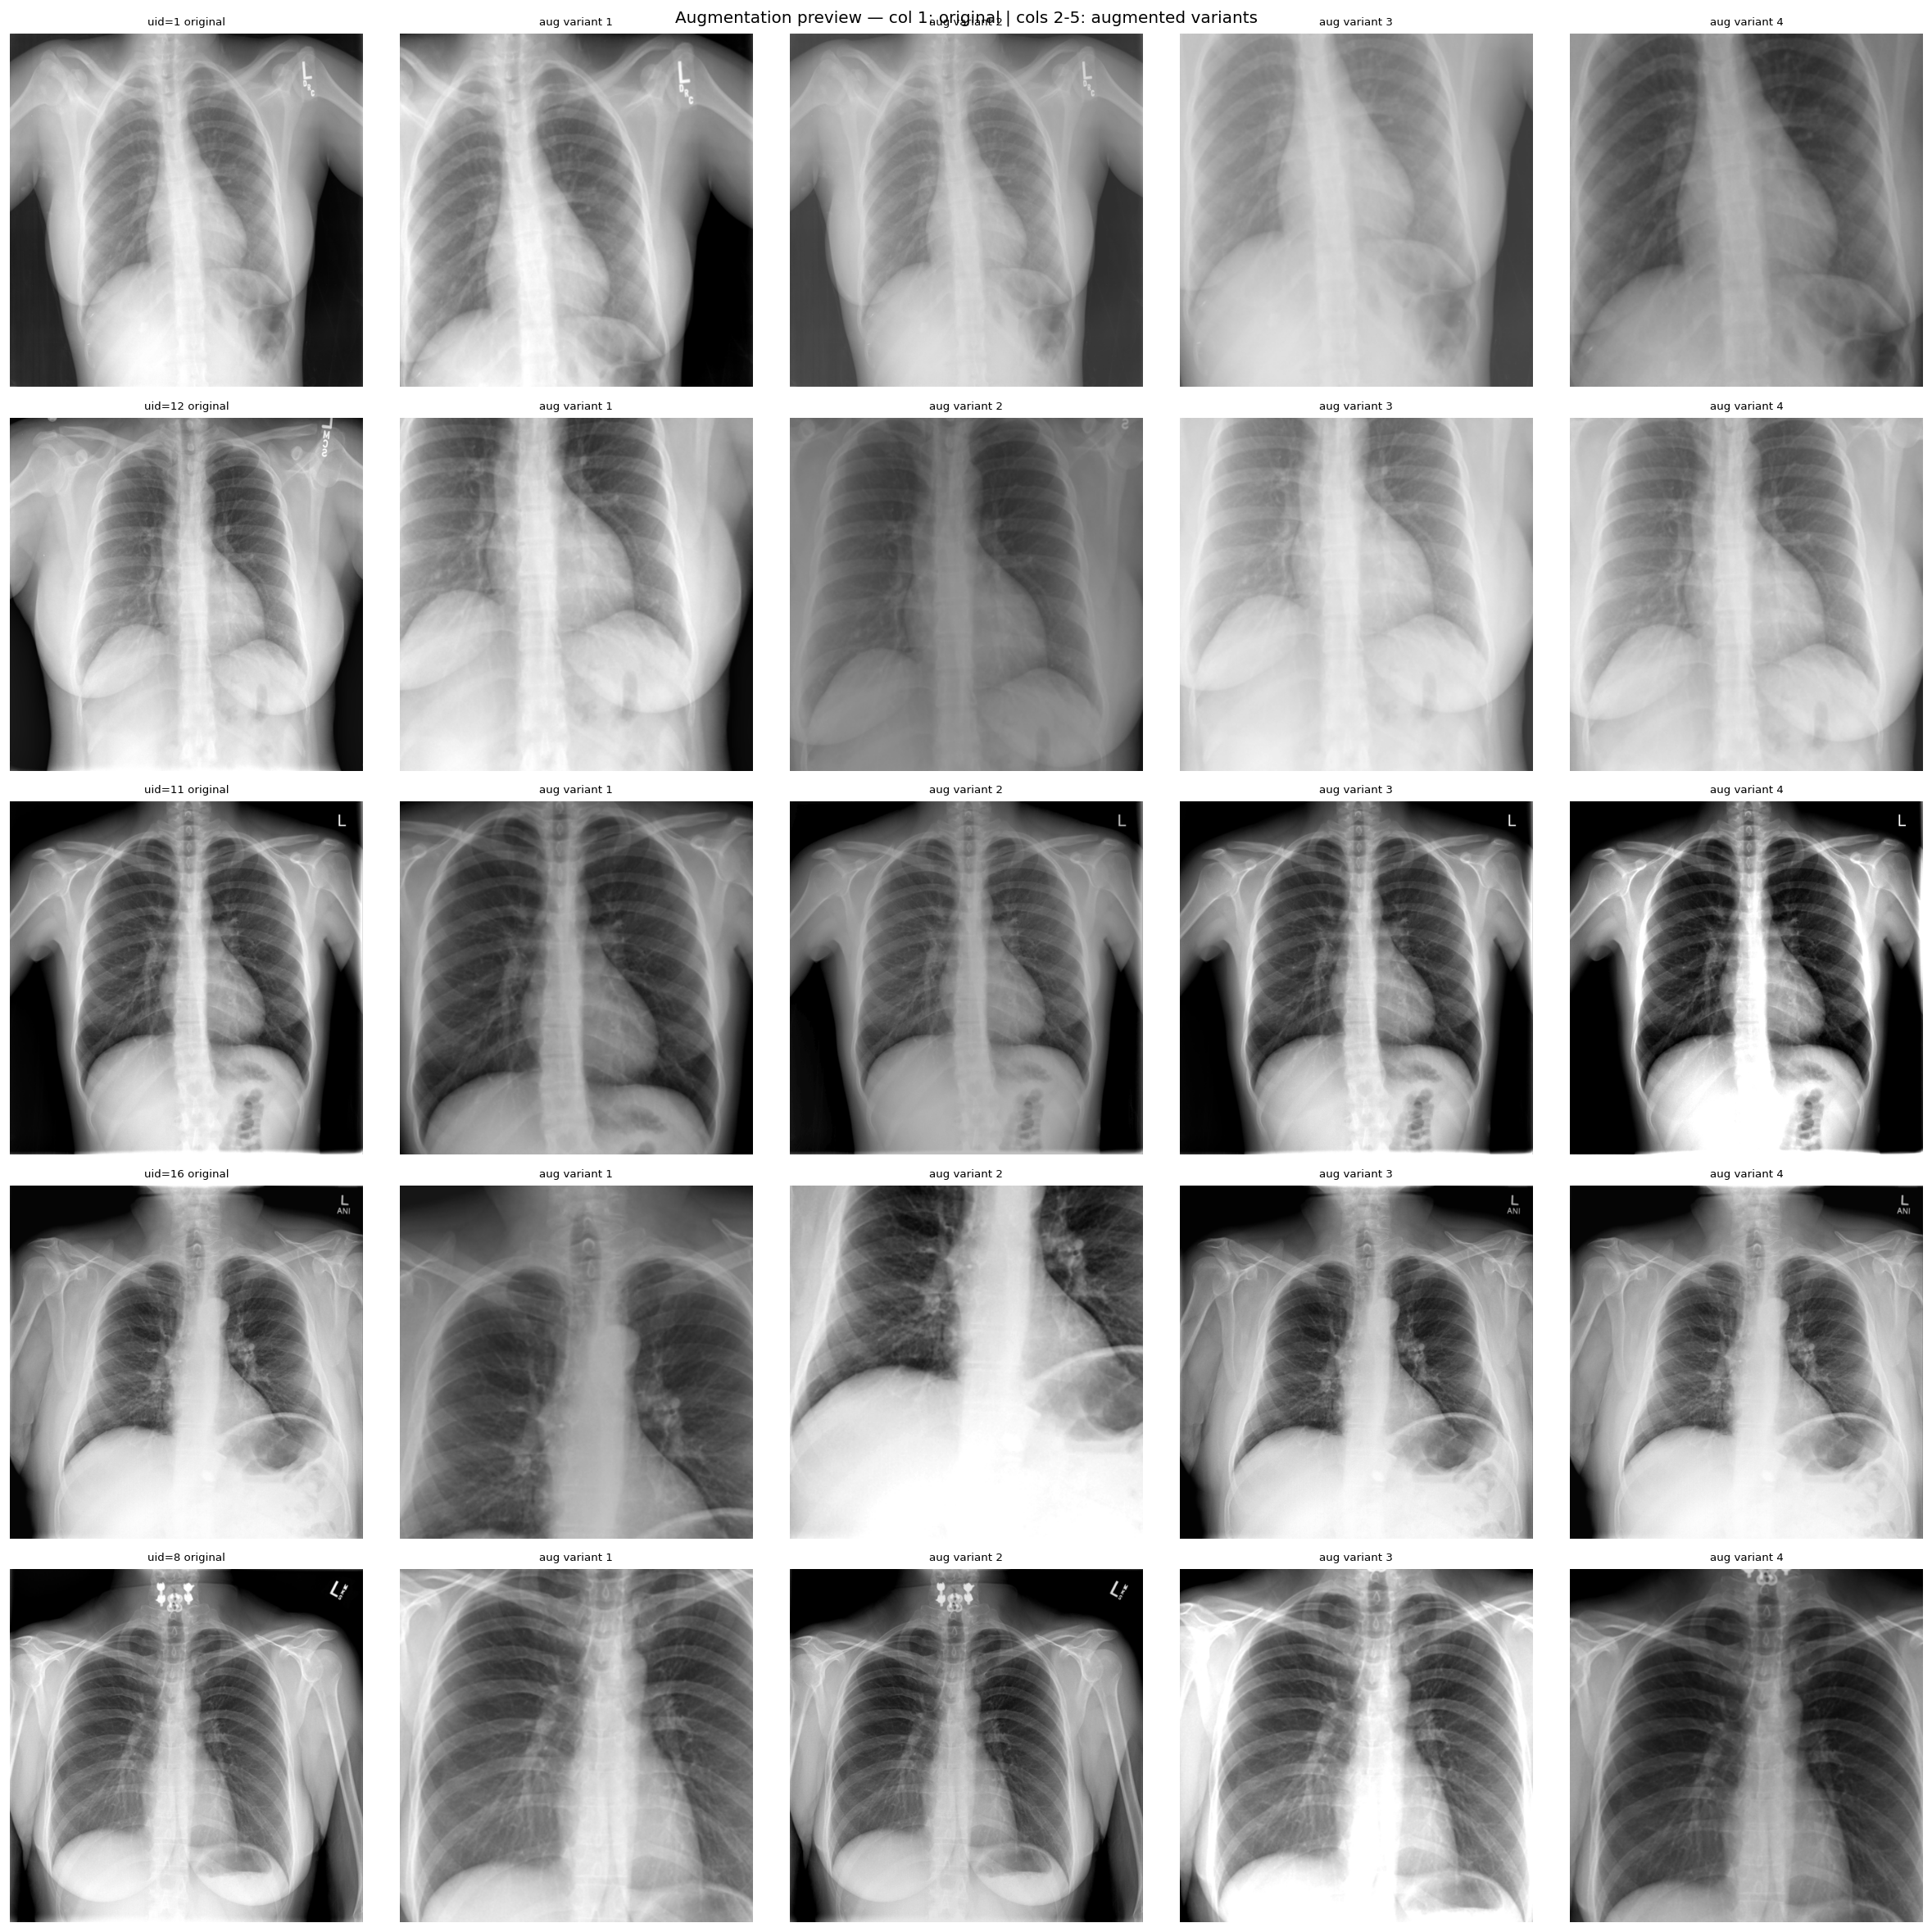
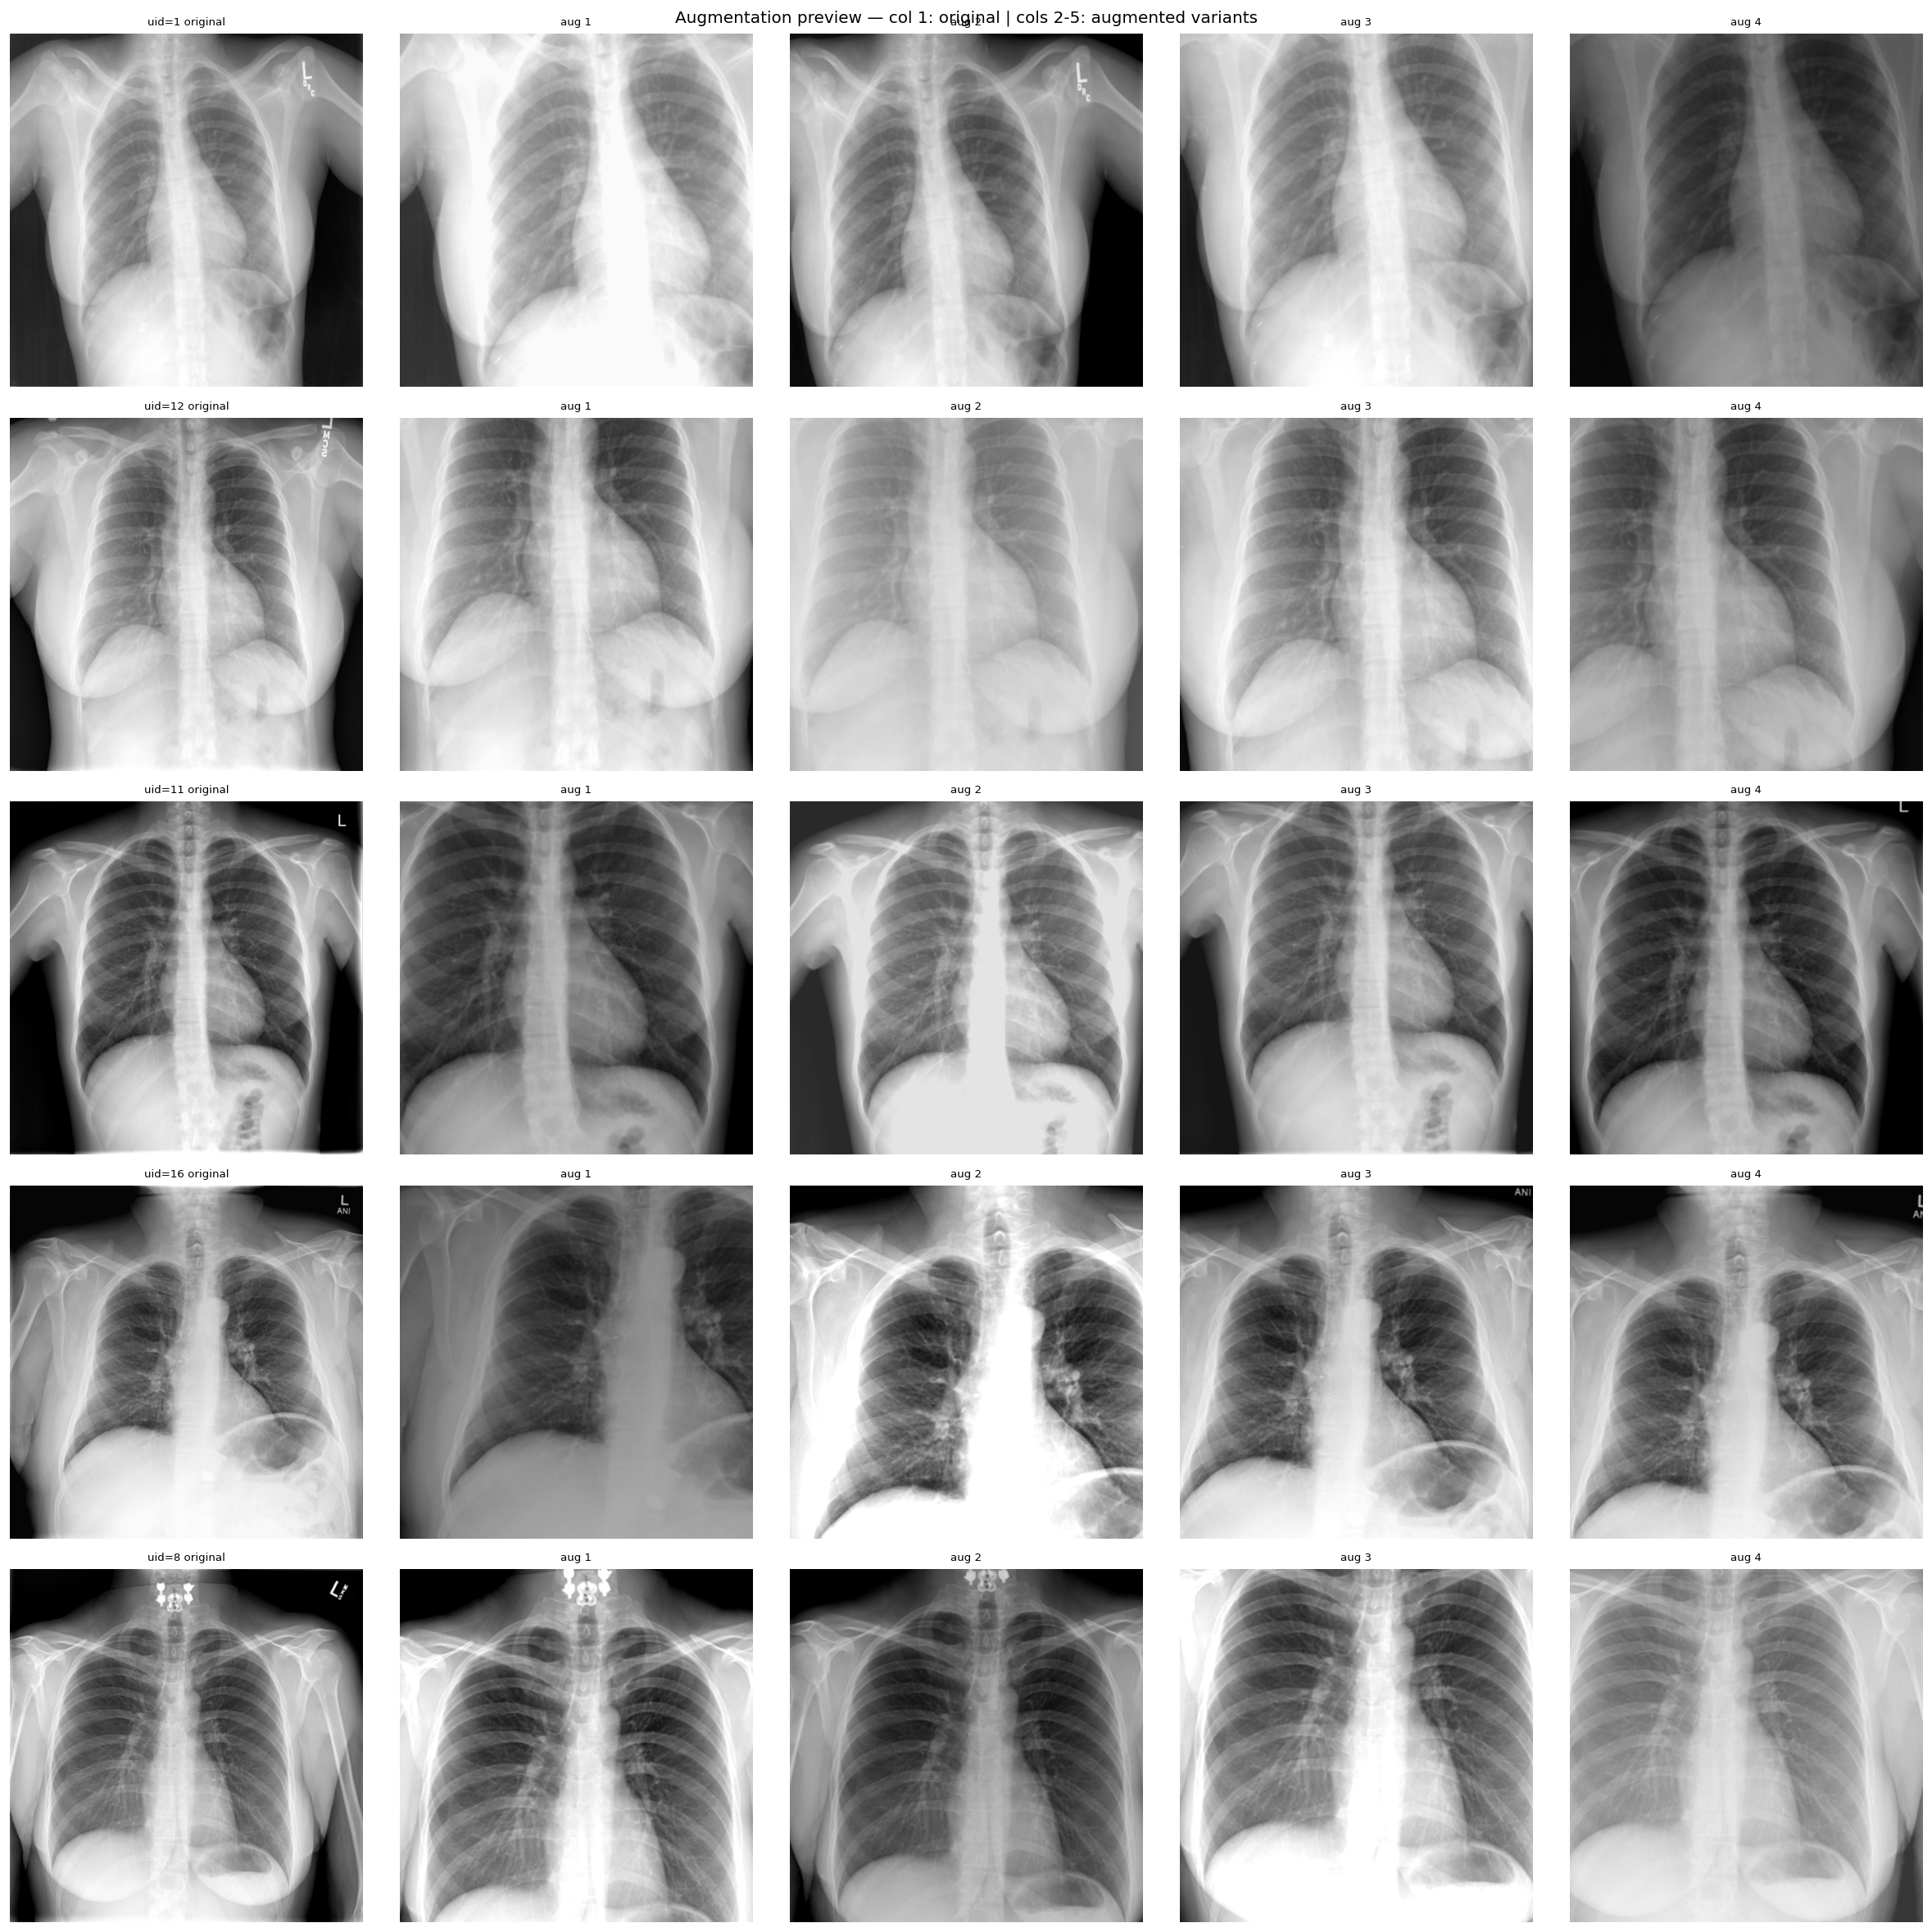
Fix training startup issues: image size, max_length, collator, HF Trainer
- Switch from TRL SFTTrainer to HF Trainer + custom CXRCollator
- Reduce image size 1024→512 (prevents image token overflow at max_len=2048)
- Increase max_length 2048→8192
- dataloader_num_workers=0 (avoid 16-process dataset reload on startup)
- ddp_find_unused_parameters=False (suppress DDP warning)
- DATA_DIR reads SMALLVLM_DATA env var for portability across machines

Training is running: loss=2.233 at step 10

diff --git a/training/train_sft.py b/training/train_sft.py
@@ -1,131 +1,67 @@
 """
 SFT training script for Qwen3.5-2B on CXR reports.
 
-Usage:
-  # Single phase
-  accelerate launch --config_file training/configs/accelerate.yaml \\
-      training/train_sft.py --phase 1 --output /raid/manoj/smallvlm/checkpoints/sft_phase1
+Uses HuggingFace Trainer (not TRL SFTTrainer) with a custom data collator
+to handle variable numbers of images per sample and curriculum task sampling.
 
-  # Continue from previous phase
+Usage:
   accelerate launch --config_file training/configs/accelerate.yaml \\
-      training/train_sft.py --phase 2 --base /raid/manoj/smallvlm/checkpoints/sft_phase1 \\
-      --output /raid/manoj/smallvlm/checkpoints/sft_phase2
+      training/train_sft.py --phase 1 \\
+      --output /raid3/manoj/smallvlm/checkpoints/sft_phase1_2b
+
+  # Continue from previous phase checkpoint:
+  accelerate launch --config_file training/configs/accelerate.yaml \\
+      training/train_sft.py --phase 2 \\
+      --base /raid3/manoj/smallvlm/checkpoints/sft_phase1_2b \\
+      --output /raid3/manoj/smallvlm/checkpoints/sft_phase2_2b
 """
 
 from __future__ import annotations
 
 import argparse
-import json
 import os
 import sys
 from pathlib import Path
 
 import torch
-from peft import LoraConfig, get_peft_model, TaskType
-from transformers import AutoModelForImageTextToText, AutoProcessor, TrainerCallback
-from trl import SFTConfig, SFTTrainer
+from peft import LoraConfig, TaskType, get_peft_model
+from transformers import AutoModelForImageTextToText, AutoProcessor, Trainer, TrainingArguments
 
 sys.path.insert(0, str(Path(__file__).parent.parent))
+from training.collator import CXRCollator
 from training.dataset import CXRSFTDataset
-from training.metrics import compute_eval_metrics, make_clearml_callback
+from training.metrics import make_clearml_callback
 
-# ── LoRA target modules ────────────────────────────────────────────────────────
-# Both DeltaNet linear_attn layers and standard self_attn layers
+# ── LoRA targets: both DeltaNet linear_attn and standard self_attn layers ─────
 LORA_TARGET_MODULES = [
-    # Standard attention
-    "q_proj", "k_proj", "v_proj", "o_proj",
-    # DeltaNet linear attention
-    "in_proj_qkv", "out_proj",
+    "q_proj", "k_proj", "v_proj", "o_proj",       # standard self_attn
+    "in_proj_qkv", "out_proj",                      # DeltaNet linear_attn
 ]
 
 
 def parse_args() -> argparse.Namespace:
     p = argparse.ArgumentParser()
-    p.add_argument("--phase", type=int, required=True, choices=[1, 2, 3, 4, 5])
-    p.add_argument("--base", default="/raid/manoj/smallvlm/checkpoints/base_qwen35_2b",
-                   help="Base model or previous phase checkpoint")
-    p.add_argument("--output", required=True)
-    p.add_argument("--epochs", type=int, default=2)
-    p.add_argument("--batch-size", type=int, default=2, help="Per-device batch size")
-    p.add_argument("--grad-accum", type=int, default=4)
-    p.add_argument("--lr", type=float, default=2e-4)
-    p.add_argument("--lora-r", type=int, default=32)
-    p.add_argument("--lora-alpha", type=int, default=32)
-    p.add_argument("--max-seq-len", type=int, default=2048)
-    p.add_argument("--eval-steps", type=int, default=200, help="Run eval every N steps")
+    p.add_argument("--phase",       type=int,   required=True, choices=[1, 2, 3, 4, 5])
+    p.add_argument("--base",        default=os.environ.get("SMALLVLM_DATA", "/raid3/manoj/smallvlm")
+                                              + "/checkpoints/base_qwen35_2b")
+    p.add_argument("--output",      required=True)
+    p.add_argument("--epochs",      type=int,   default=2)
+    p.add_argument("--batch-size",  type=int,   default=2, help="Per-device batch size")
+    p.add_argument("--grad-accum",  type=int,   default=8)
+    p.add_argument("--lr",          type=float, default=2e-4)
+    p.add_argument("--lora-r",      type=int,   default=32)
+    p.add_argument("--lora-alpha",  type=int,   default=32)
+    p.add_argument("--max-len",     type=int,   default=8192)
+    p.add_argument("--eval-steps",  type=int,   default=200)
     p.add_argument("--clearml-project", default="smallvlm")
-    p.add_argument("--clearml-task", default=None)
+    p.add_argument("--clearml-task",    default=None)
     return p.parse_args()
-
-
-def load_model_and_processor(base_path: str, lora_r: int, lora_alpha: int):
-    processor = AutoProcessor.from_pretrained(base_path, trust_remote_code=True)
-    processor.tokenizer.padding_side = "left"
-
-    model = AutoModelForImageTextToText.from_pretrained(
-        base_path,
-        dtype=torch.bfloat16,
-        trust_remote_code=True,
-    )
-
-    lora_config = LoraConfig(
-        task_type=TaskType.CAUSAL_LM,
-        r=lora_r,
-        lora_alpha=lora_alpha,
-        lora_dropout=0.05,
-        target_modules=LORA_TARGET_MODULES,
-        bias="none",
-    )
-    model = get_peft_model(model, lora_config)
-    model.print_trainable_parameters()
-
-    return model, processor
-
-
-def collate_fn(batch, processor, max_seq_len):
-    """Convert list of dataset samples to model inputs."""
-    valid = [b for b in batch if b is not None]
-    if not valid:
-        return None
-
-    texts, images_batch = [], []
-    for sample in valid:
-        messages = sample["messages"]
-        # Extract images from messages
-        imgs = []
-        for msg in messages:
-            if isinstance(msg["content"], list):
-                for part in msg["content"]:
-                    if part.get("type") == "image":
-                        imgs.append(part["image"])
-        images_batch.append(imgs)
-        # Format chat template (processor handles image token injection)
-        text = processor.apply_chat_template(messages, tokenize=False, add_generation_prompt=False)
-        texts.append(text)
-
-    # Flatten image list
-    all_images = [img for imgs in images_batch for img in imgs]
-
-    inputs = processor(
-        text=texts,
-        images=all_images if all_images else None,
-        return_tensors="pt",
-        padding=True,
-        truncation=True,
-        max_length=max_seq_len,
-    )
-
-    # For SFT, labels = input_ids with prompt tokens masked to -100
-    inputs["labels"] = inputs["input_ids"].clone()
-
-    return inputs
 
 
 def main():
     args = parse_args()
     task_name = args.clearml_task or f"sft_phase{args.phase}_2b"
 
-    # ClearML init — must happen before any model loading on rank 0
     clearml_cb = make_clearml_callback(
         project=args.clearml_project,
         task_name=task_name,
@@ -133,15 +69,37 @@ def main():
     )
 
     print(f"\n=== SFT Phase {args.phase} ===")
-    print(f"Base model : {args.base}")
-    print(f"Output     : {args.output}")
+    print(f"Base      : {args.base}")
+    print(f"Output    : {args.output}")
 
-    model, processor = load_model_and_processor(args.base, args.lora_r, args.lora_alpha)
+    # ── Model + processor ─────────────────────────────────────────────────────
+    processor = AutoProcessor.from_pretrained(args.base, trust_remote_code=True)
+    processor.tokenizer.padding_side = "left"
 
+    model = AutoModelForImageTextToText.from_pretrained(
+        args.base,
+        dtype=torch.bfloat16,
+        trust_remote_code=True,
+    )
+
+    lora_cfg = LoraConfig(
+        task_type=TaskType.CAUSAL_LM,
+        r=args.lora_r,
+        lora_alpha=args.lora_alpha,
+        lora_dropout=0.05,
+        target_modules=LORA_TARGET_MODULES,
+        bias="none",
+    )
+    model = get_peft_model(model, lora_cfg)
+    model.print_trainable_parameters()
+
+    # ── Datasets + collator ───────────────────────────────────────────────────
     train_ds = CXRSFTDataset(phase=args.phase, split="train", augment=True)
     val_ds   = CXRSFTDataset(phase=args.phase, split="val",   augment=False)
+    collator = CXRCollator(processor, max_length=args.max_len)
 
-    sft_config = SFTConfig(
+    # ── Training args ─────────────────────────────────────────────────────────
+    training_args = TrainingArguments(
         output_dir=args.output,
         num_train_epochs=args.epochs,
         per_device_train_batch_size=args.batch_size,
@@ -160,18 +118,19 @@ def main():
         save_total_limit=3,
         load_best_model_at_end=True,
         metric_for_best_model="eval_loss",
-        report_to="none",  # we handle logging via clearml_cb
-        dataloader_num_workers=4,
+        report_to="none",
+        dataloader_num_workers=0,
         remove_unused_columns=False,
-        max_seq_length=args.max_seq_len,
+        label_names=["labels"],
+        ddp_find_unused_parameters=False,
     )
 
-    trainer = SFTTrainer(
+    trainer = Trainer(
         model=model,
-        args=sft_config,
+        args=training_args,
         train_dataset=train_ds,
         eval_dataset=val_ds,
-        processing_class=processor,
+        data_collator=collator,
         callbacks=[clearml_cb],
     )
 

diff --git a/training/collator.py b/training/collator.py
@@ -1,0 +1,81 @@
+"""
+Data collator for CXR SFT training.
+
+Handles variable numbers of images per sample (1 or 2 views), applies the
+processor to produce tokenized inputs, and masks prompt tokens in labels.
+"""
+
+from __future__ import annotations
+
+from typing import List
+
+import torch
+
+
+class CXRCollator:
+    def __init__(self, processor, max_length: int = 2048):
+        self.processor = processor
+        self.max_length = max_length
+
+    def __call__(self, batch: List[dict]) -> dict:
+        valid = [b for b in batch if b is not None]
+        if not valid:
+            return {}
+
+        texts, all_images = [], []
+
+        for sample in valid:
+            messages = sample["messages"]
+
+            # Collect images from this sample
+            sample_images = []
+            for msg in messages:
+                if isinstance(msg["content"], list):
+                    for part in msg["content"]:
+                        if part.get("type") == "image":
+                            sample_images.append(part["image"])
+            all_images.extend(sample_images)
+
+            # Apply chat template (processor inserts <image> tokens)
+            text = self.processor.apply_chat_template(
+                messages,
+                tokenize=False,
+                add_generation_prompt=False,
+            )
+            texts.append(text)
+
+        inputs = self.processor(
+            text=texts,
+            images=all_images if all_images else None,
+            return_tensors="pt",
+            padding=True,
+            truncation=True,
+            max_length=self.max_length,
+        )
+
+        # Build labels — mask everything up to and including the last assistant turn start.
+        # Strategy: find the assistant response tokens and only supervise those.
+        labels = inputs["input_ids"].clone()
+
+        # Mask pad tokens
+        labels[labels == self.processor.tokenizer.pad_token_id] = -100
+
+        # Mask the prompt (user turn) — keep only the assistant response tokens.
+        # We locate the assistant turn by finding where the model's response begins.
+        # For Qwen, the assistant response follows <|im_start|>assistant\n
+        assistant_token = self.processor.tokenizer.encode(
+            "<|im_start|>assistant\n", add_special_tokens=False
+        )
+        if assistant_token:
+            for i, ids in enumerate(inputs["input_ids"]):
+                # Find all positions where the assistant token sequence starts
+                last_assistant_start = -1
+                for j in range(len(ids) - len(assistant_token)):
+                    if ids[j:j+len(assistant_token)].tolist() == assistant_token:
+                        last_assistant_start = j
+                # Mask everything up to and including the assistant header
+                if last_assistant_start >= 0:
+                    labels[i, :last_assistant_start + len(assistant_token)] = -100
+
+        inputs["labels"] = labels
+        return inputs

diff --git a/training/dataset.py b/training/dataset.py
@@ -9,6 +9,7 @@ Train/test split is enforced using the fixed split from evals/data/test_split.js
 from __future__ import annotations
 
 import json
+import os
 import random
 from pathlib import Path
 from typing import List, Optional
@@ -20,7 +21,7 @@ from preprocessing.llm_formatter import load_canonical
 from training.augmentations import prepare_views
 from training.tasks import PHASES, PROMPTS, build_target
 
-DATA_DIR = Path("/raid/manoj/smallvlm")
+DATA_DIR = Path(os.environ.get("SMALLVLM_DATA", "/raid3/manoj/smallvlm"))
 CANONICAL_PATH = DATA_DIR / "data" / "canonical.jsonl"
 PROJECTIONS_CSV = DATA_DIR / "raddar/chest-xrays-indiana-university/versions/2/indiana_projections.csv"
 REPORTS_CSV     = DATA_DIR / "raddar/chest-xrays-indiana-university/versions/2/indiana_reports.csv"
@@ -62,13 +63,15 @@ def _load_problems() -> dict:
 
 
 class CXRSFTDataset(Dataset):
+    column_names = None  # TRL SFTTrainer checks for this; None → inferred from first item keys
+
     def __init__(
         self,
         phase: int,
         split: str = "train",
         augment: bool = True,
         drop_prob: float = 0.2,
-        image_size: tuple = (1024, 1024),
+        image_size: tuple = (512, 512),
         seed: int = 42,
     ):
         assert split in ("train", "val")

diff --git a/evals/inference.py b/evals/inference.py
@@ -19,7 +19,7 @@ from PIL import Image
 from transformers import AutoModelForImageTextToText, AutoProcessor
 
 MODEL_ID = "Qwen/Qwen3.5-0.8B"
-IMAGE_SIZE = (1024, 1024)  # resize all images to this before batching
+IMAGE_SIZE = (512, 512)  # resize all images to this before batching
 
 LEVEL1_PROMPT = (
     "You are a radiologist. Look at this chest X-ray and answer with a single word only.\n"

diff --git a/training/augmentations.py b/training/augmentations.py
@@ -48,7 +48,7 @@ def prepare_views(
     lateral_path: Optional[str],
     drop_prob: float = 0.2,
     augment: bool = True,
-    image_size: tuple = (1024, 1024),
+    image_size: tuple = (512, 512),
 ) -> list[Image.Image]:
     """
     Load, augment, and apply view dropout.